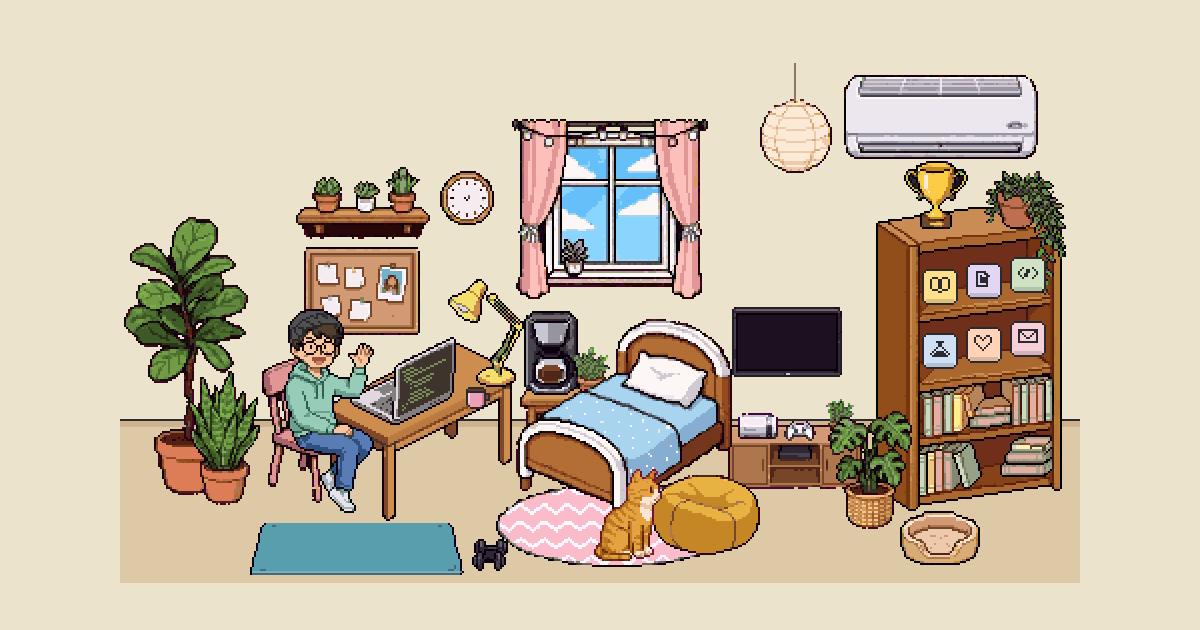
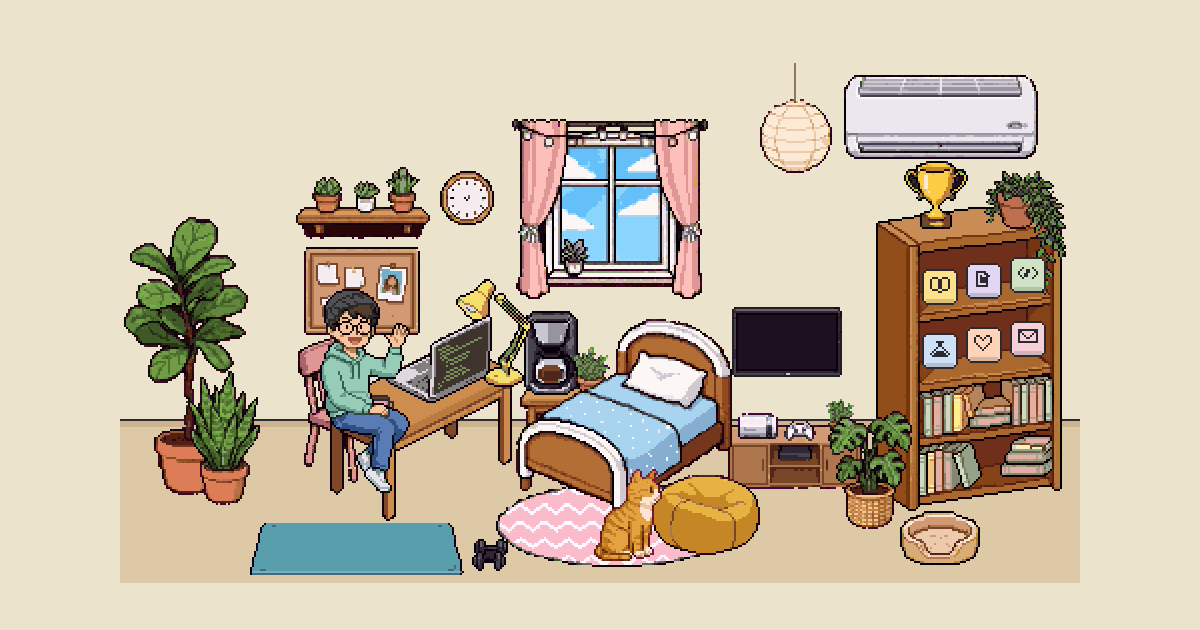
home: dev sits at the middle of the desk
He was perched at its corner. He and the chair moved along the long side, the
laptop sits in front of him, the lamp at the far end, the mug by his hand, and
in the wide room he steps out past the corner of the desk to leave.

Changed region(s): [[0.2158, 0.4524, 0.4625, 0.8143]]

diff --git a/sites/home/public/game.js b/sites/home/public/game.js
@@ -109,7 +109,7 @@
 
   // Lights: id, group, x, y, radius
   const LIGHTS = [
-    { id: 'desk', group: 'desk', x: 177, y: 128, r: 78, c: '255,206,130' },
+    { id: 'desk', group: 'desk', x: 181, y: 128, r: 78, c: '255,206,130' },
     { id: 'lantern', group: 'lantern', x: 338, y: 46, r: 100, c: '255,224,170' },
     { id: 'tv', group: 'shelf', x: 333, y: 150, r: 64, c: '150,190,255' }
   ];
@@ -169,9 +169,9 @@
     { id: 'snake', sprite: 'snake', group: 'snake', x: 34, y: 162, base: 229 },
     { id: 'deskLegs', sprite: 'deskLegs', group: 'desk', x: 103, y: 148, base: 230 },
     { id: 'desk', sprite: 'desk', group: 'desk', x: 103, y: 148, base: 237 },
-    { id: 'laptop', sprite: 'laptop', group: 'desk', x: 115, y: 145, base: 237.1 },
-    { id: 'lamp', sprite: 'lamp', group: 'desk', x: 164, y: 116, base: 237.1 },
-    { id: 'mug', sprite: 'mug', group: 'desk', x: 172, y: 170, base: 237.2 },
+    { id: 'laptop', sprite: 'laptop', group: 'desk', x: 133, y: 134, base: 237.1 },
+    { id: 'lamp', sprite: 'lamp', group: 'desk', x: 168, y: 116, base: 237 },
+    { id: 'mug', sprite: 'mug', group: 'desk', x: 124, y: 174, base: 237.2 },
     { id: 'table', sprite: 'table', group: 'coffee', x: 200, y: 168, base: 205 },
     { id: 'coffee', sprite: 'coffee', group: 'coffee', x: 202, y: 132, base: 205.5 },
     { id: 'herb', sprite: 'herb', group: 'coffee', x: 226, y: 150, base: 205.5 },
@@ -195,8 +195,10 @@
   ];
   const ROOM_BY_ID = {};
   ROOM.forEach((r) => { ROOM_BY_ID[r.id] = r; });
-  const DESK_LINE = 190; // sitting, he's above the desk over this line and under it below
+  const DESK_LINE = 180; // sitting, he's above the desk over this line and under it below
   const LANE = 256; // in the wide room everyone walks along the open floor in front of everything
+  const DESK_SEAT_X = 122;
+  const DESK_EXIT = [92, 234];
   const AISLE = { x: 198, top: 392, bottom: 414, split: 395 }; // the tall room's gap between desk and bed
 
   // The chair is its own sprite: it slides out when he gets up and back when he sits
@@ -218,13 +220,19 @@
   }
 
   function drawChair() {
-    const [x, y] = at('desk', 71, 155);
+    const [x, y] = at('desk', 89, 145);
     sprite('chair', x + Math.round(CHAIR_OUT[0] * chair.t), y + Math.round(CHAIR_OUT[1] * chair.t));
   }
 
   // Feet positions to walk through, so nobody crosses a piece of furniture
   function route(from, to) {
-    if (!L.tall) return [[from[0], LANE], [to[0], LANE], to];
+    if (!L.tall) {
+      // The chair is behind the desk: step out past its corner first
+      const near = (p) => p[1] < DESK_EXIT[1] && Math.abs(p[0] - DESK_SEAT_X) < 10;
+      const start = near(from) ? [DESK_EXIT, [DESK_EXIT[0], LANE]] : [[from[0], LANE]];
+      const end = near(to) ? [[DESK_EXIT[0], LANE], DESK_EXIT, to] : [[to[0], LANE], to];
+      return start.concat(end);
+    }
     const fromTop = from[1] < AISLE.split;
     if (fromTop === to[1] < AISLE.split) return [to];
     if (fromTop) return [[AISLE.x, AISLE.top], [AISLE.x, AISLE.bottom], [to[0], AISLE.bottom], to];
@@ -235,15 +243,15 @@
   const THINGS = [
     { id: 'ac', label: 'air conditioner', group: 'ac', x: 362, y: 14, w: 97, h: 42, act: () => toggleAC() },
     { id: 'lantern', label: 'paper lantern', group: 'lantern', x: 320, y: 12, w: 36, h: 52, act: () => toggleLamp('lantern') },
-    { id: 'lamp', label: 'desk lamp', group: 'desk', x: 164, y: 116, w: 38, h: 54, act: () => toggleLamp('desk') },
+    { id: 'lamp', label: 'desk lamp', group: 'desk', x: 168, y: 116, w: 38, h: 54, act: () => toggleLamp('desk') },
     { id: 'window', label: 'window', group: 'window', x: 196, y: 36, w: 98, h: 90, act: () => sayDev(clockLine('it’s {t} here in Saigon')) },
     { id: 'clock', label: 'clock', group: 'clock', x: 160, y: 62, w: 27, h: 27, act: () => sayDev(clockLine('{t}. should I be sleeping?')) },
     { id: 'cork', label: 'cork board', group: 'cork', x: 92, y: 100, w: 58, h: 44, say: 'todo: fewer todos' },
     { id: 'succs', label: 'little succulents', group: 'succs', x: 88, y: 60, w: 67, h: 36, say: 'the only ones I never forget' },
     { id: 'fig', label: 'fig tree', group: 'plants', x: 2, y: 85, w: 62, h: 110, say: 'taller than my last app' },
     { id: 'snake', label: 'snake plant', group: 'snake', x: 34, y: 165, w: 36, h: 62, say: 'impossible to kill. tested.' },
-    { id: 'laptop', label: 'laptop', group: 'desk', x: 115, y: 145, w: 53, h: 44, say: 'no peeking, it’s full of bugs' },
-    { id: 'mug', label: 'mug', group: 'desk', x: 172, y: 170, w: 16, h: 16, act: () => sayDev('coffee number ' + (3 + Math.floor(Math.random() * 3))) },
+    { id: 'laptop', label: 'laptop', group: 'desk', x: 133, y: 134, w: 53, h: 44, say: 'no peeking, it’s full of bugs' },
+    { id: 'mug', label: 'mug', group: 'desk', x: 124, y: 174, w: 16, h: 14, act: () => sayDev('coffee number ' + (3 + Math.floor(Math.random() * 3))) },
     { id: 'coffee', label: 'coffee machine', group: 'coffee', x: 202, y: 132, w: 27, h: 42, act: () => invite(() => visit(SPOTS.coffee), 'the real senior engineer') },
     { id: 'herb', label: 'little herb', group: 'coffee', x: 226, y: 150, w: 19, h: 26, say: 'I forgot to water it again' },
     { id: 'bed', label: 'bed', group: 'bed', x: 200, y: 140, w: 104, h: 96, act: () => invite(nap, 'not yet. one more commit.') },
@@ -738,7 +746,7 @@
   const dev = { state: 'code', bed: 0, bedTo: 0, x: 0, y: 0, flip: false, wait: 0, breakIn: 60, thought: 8, pokes: 0, pokedAt: 0 };
 
   function seat() {
-    const [x, y] = at('desk', 46, 122);
+    const [x, y] = at('desk', 64, 112);
     return [x, y - 36];
   }
 
@@ -1066,7 +1074,7 @@
   // Everything that stands on the floor, drawn back to front
   function drawDepth() {
     const layers = [
-      { base: at('desk', 0, 228 + CHAIR_OUT[1] * chair.t)[1], draw: drawChair },
+      { base: at('desk', 0, 218 + CHAIR_OUT[1] * chair.t)[1], draw: drawChair },
       { base: catInBed() ? at('shelf', 0, 260)[1] : cat.y + 51, draw: drawCat }
     ];
     if (atDesk()) {
@@ -1385,7 +1393,7 @@
   function drawShadows() {
     ctx.fillStyle = 'rgba(82,54,32,0.2)';
     SHADOWS.forEach((v) => shadow(...v));
-    shadow('desk', 94 + CHAIR_OUT[0] * chair.t, 228 + CHAIR_OUT[1] * chair.t, 23, 5);
+    shadow('desk', 112 + CHAIR_OUT[0] * chair.t, 218 + CHAIR_OUT[1] * chair.t, 23, 5);
     const on = (x, y, rx, ry) => {
       ctx.beginPath();
       ctx.ellipse(ox + x, oy + y, rx, ry, 0, 0, Math.PI * 2);
